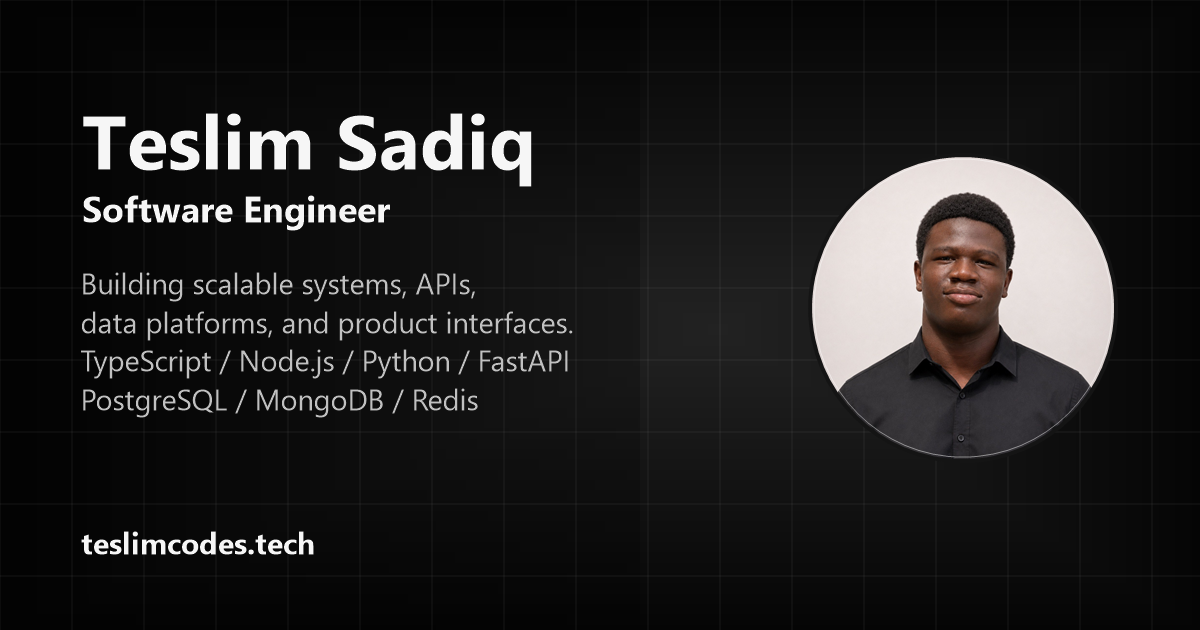
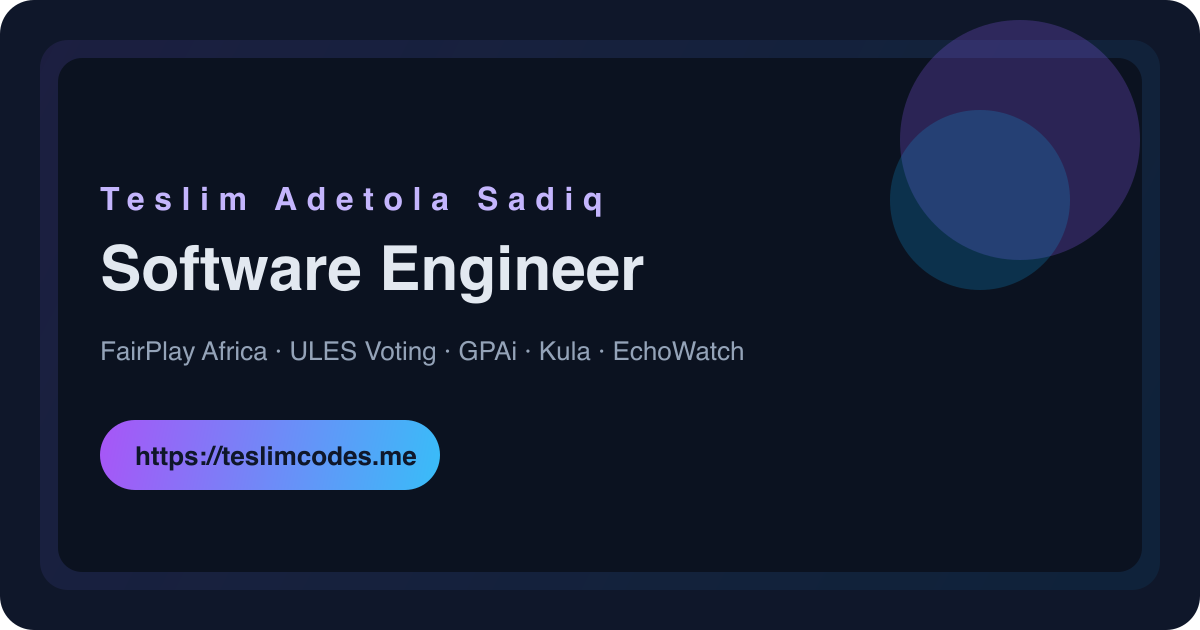
Sync portfolio role details and site metadata

diff --git a/my-portfolio/app/data/profile.ts b/my-portfolio/app/data/profile.ts
@@ -1,5 +1,5 @@
 export const resumeUrl = "/Teslim%20Adetola%20Sadiq%20-%20Resume.pdf";
-export const siteUrl = "https://teslimcodes.tech";
+export const siteUrl = "https://teslimcodes.me";
 export const seoImage = `${siteUrl}/og-image.png`;
 
 export const profile = {
@@ -10,9 +10,9 @@ export const profile = {
   timezone: "Africa/Lagos",
   email: "sadiqadetola08@gmail.com",
   summary:
-    "I am a Software Engineer and Software Engineering Intern at Access Bank Plc, working across backend systems, product-facing interfaces, and AI-powered student tools.",
+    "Backend Engineer at Nevo and ex SWE Intern at Access Bank.",
   current:
-    "I excel at turning ambiguous product requirements into reliable systems: designing APIs, modeling data, building React and TypeScript interfaces, and shipping full-stack products that can serve real communities.",
+    "I build reliable backend systems, APIs, and data workflows that support useful products and real users.",
 };
 
 export const socials = [
@@ -90,20 +90,20 @@ export const projects = [
 
 export const experience = [
   {
-    role: "Software Engineering Intern",
-    company: "Access Bank Plc",
-    href: "https://www.linkedin.com/company/access-bank-plc/",
-    period: "2026 - Present",
-    description:
-      "Gaining hands-on experience on real-world banking systems while learning from Access Bank's engineering team.",
-  },
-  {
     role: "Backend Engineer",
     company: "Nevo",
     href: "https://nevolearning.com",
     period: "2026 - Present",
     description:
       "Building backend systems for an adaptive learning platform for neurodivergent students, supporting product launch and AI-assisted learning workflows.",
+  },
+  {
+    role: "Software Engineer Intern",
+    company: "Access Bank Plc",
+    href: "https://www.linkedin.com/company/access-bank-plc/",
+    period: "Sep 2026 - Nov 2026",
+    description:
+      "Built C# services for the retail banking app's airtime, data, and electricity flows, and delivered a hackathon dashboard used by 2,000+ people.",
   },
   {
     role: "Backend Engineering Intern",
@@ -125,9 +125,9 @@ export const experience = [
     role: "Deputy Development Lead",
     company: "GDGoC UNILAG",
     href: "https://www.linkedin.com/company/dscunilag/",
-    period: "2026 - Present",
+    period: "2026",
     description:
-      "Supporting developer community programs and technical experiences that help students get closer to the people and teams building technology in practice.",
+      "Supported developer community programs and technical experiences that helped students connect with teams building technology.",
   },
 ];
 

diff --git a/my-portfolio/app/routes/projectDetails.tsx b/my-portfolio/app/routes/projectDetails.tsx
@@ -6,7 +6,7 @@ import Footer from "./footer";
 import { useRevealAnimation } from "../hooks/useRevealAnimation";
 
 export const meta = ({ params }: { params: { id?: string } }) => {
-  const ogImage = "https://teslimcodes.tech/og-image.svg";
+  const ogImage = "https://teslimcodes.me/og-image.svg";
   const twitterHandle = "@teslimadetola08";
   const project = projectsData.find((item) => item.id === params.id);
 
@@ -23,8 +23,8 @@ export const meta = ({ params }: { params: { id?: string } }) => {
         content: "This project does not exist in Teslim Sadiq’s portfolio.",
       },
       { property: "og:type", content: "website" },
-      { property: "og:url", content: "https://teslimcodes.tech/projects" },
-      { property: "og:site_name", content: "Teslim Codes" },
+      { property: "og:url", content: "https://teslimcodes.me/projects" },
+      { property: "og:site_name", content: "Teslim Sadiq" },
       { property: "og:image", content: ogImage },
       { property: "og:image:type", content: "image/svg+xml" },
       { property: "og:image:width", content: "1200" },
@@ -40,7 +40,7 @@ export const meta = ({ params }: { params: { id?: string } }) => {
     ];
   }
 
-  const pageUrl = `https://teslimcodes.tech/projects/${project.id}`;
+  const pageUrl = `https://teslimcodes.me/projects/${project.id}`;
 
   return [
     { title: `${project.title} | Teslim Sadiq` },
@@ -49,7 +49,7 @@ export const meta = ({ params }: { params: { id?: string } }) => {
     { property: "og:description", content: project.description },
     { property: "og:type", content: "article" },
     { property: "og:url", content: pageUrl },
-    { property: "og:site_name", content: "Teslim Codes" },
+    { property: "og:site_name", content: "Teslim Sadiq" },
     { property: "og:image", content: ogImage },
     { property: "og:image:type", content: "image/svg+xml" },
     { property: "og:image:width", content: "1200" },

diff --git a/my-portfolio/app/routes/home.tsx b/my-portfolio/app/routes/home.tsx
@@ -5,7 +5,7 @@ import { experience, profile, projects, resumeUrl, seoImage, siteUrl } from "~/d
 
 const title = "Teslim Sadiq | Software Engineer";
 const description =
-  "Teslim Sadiq is a Software Engineer in Lagos building scalable systems, APIs, data platforms, and product-facing interfaces with TypeScript, Node.js, Python, FastAPI, PostgreSQL, MongoDB, and Redis.";
+  "Teslim Sadiq is a Software Engineer in Lagos, currently a Backend Engineer at Nevo and formerly an SWE Intern at Access Bank.";
 
 export function links() {
   return [{ rel: "canonical", href: siteUrl }];
@@ -16,7 +16,7 @@ export function meta({}: Route.MetaArgs) {
     { title },
     { name: "description", content: description },
     { name: "robots", content: "index, follow" },
-    { name: "keywords", content: "Teslim Sadiq, Software Engineer, Backend Engineer, TypeScript, Node.js, Python, FastAPI, React, Lagos" },
+    { name: "keywords", content: "Teslim Sadiq, Software Engineer, Backend Engineer at Nevo, Access Bank, SWE Intern, TypeScript, Node.js, Python, FastAPI, Lagos" },
     { name: "author", content: "Teslim Adetola Sadiq" },
     { property: "og:title", content: title },
     { property: "og:description", content: description },
@@ -24,7 +24,7 @@ export function meta({}: Route.MetaArgs) {
     { property: "og:url", content: siteUrl },
     { property: "og:site_name", content: "Teslim Sadiq" },
     { property: "og:image", content: seoImage },
-    { property: "og:image:alt", content: "Teslim Sadiq - Software Engineer" },
+    { property: "og:image:alt", content: "Teslim Sadiq, Software Engineer" },
     { property: "og:image:width", content: "1200" },
     { property: "og:image:height", content: "630" },
     { name: "twitter:card", content: "summary_large_image" },

diff --git a/my-portfolio/app/routes/project.tsx b/my-portfolio/app/routes/project.tsx
@@ -18,9 +18,9 @@ export const meta = () => [
     content: 'Award-winning AI and fullstack builds including FairPlay Africa, ULES Voting, GPAi, Kula, and more.',
   },
   { property: 'og:type', content: 'website' },
-  { property: 'og:url', content: 'https://teslimcodes.tech/projects' },
-  { property: 'og:site_name', content: 'Teslim Codes' },
-  { property: 'og:image', content: 'https://teslimcodes.tech/og-image.svg' },
+  { property: 'og:url', content: 'https://teslimcodes.me/projects' },
+  { property: 'og:site_name', content: 'Teslim Sadiq' },
+  { property: 'og:image', content: 'https://teslimcodes.me/og-image.svg' },
   { property: 'og:image:type', content: 'image/svg+xml' },
   { property: 'og:image:width', content: '1200' },
   { property: 'og:image:height', content: '630' },
@@ -31,7 +31,7 @@ export const meta = () => [
     content: 'Award-winning AI and fullstack builds including FairPlay Africa, ULES Voting, GPAi, Kula, and more.',
   },
   { name: 'twitter:site', content: '@teslimadetola08' },
-  { name: 'twitter:image', content: 'https://teslimcodes.tech/og-image.svg' },
+  { name: 'twitter:image', content: 'https://teslimcodes.me/og-image.svg' },
 ];
 
 type Project = {

diff --git a/my-portfolio/app/routes/about.tsx b/my-portfolio/app/routes/about.tsx
@@ -106,7 +106,7 @@ export default function About() {
           <section id="intro">
             <h1>About Me</h1>
             <p>
-              My name is {profile.name}. I am a Software Engineer from Lagos, Nigeria, focused on building scalable systems that are reliable, maintainable, and useful under real business constraints.
+              My name is {profile.name}. I am a Software Engineer from Lagos, Nigeria. I currently work as a Backend Engineer at Nevo and previously worked as an SWE Intern at Access Bank. I focus on building scalable systems that are reliable, maintainable, and useful under real business constraints.
             </p>
             <p>
               I work across backend architecture, API design, data modeling, distributed workflows, and product-facing interfaces. My core stack includes TypeScript, Node.js, React, Python, FastAPI, PostgreSQL, MongoDB, Redis, and queue-based systems.

diff --git a/my-portfolio/app/routes/hero.tsx b/my-portfolio/app/routes/hero.tsx
@@ -56,7 +56,7 @@ const HeroSection = () => {
                 paragraphReveal.isVisible ? 'motion-safe:animate-reveal-up' : 'opacity-0 translate-y-6'
               } motion-reduce:opacity-100 motion-reduce:translate-y-0`}
             >
-              I’m a Lagos-based Fullstack Developer & AI Engineer shipping AI-first civic, security, and education platforms for Nigeria. From FairPlay Africa and Nevo to ULES voting and GPAi, I lead pods that blend expressive interfaces with dependable Node/FastAPI services plus payment and realtime rails that bridge the digital divide.
+              Backend Engineer at Nevo and ex SWE Intern at Access Bank.
             </p>
           </div>
           <div

diff --git a/my-portfolio/app/routes/work.tsx b/my-portfolio/app/routes/work.tsx
@@ -4,7 +4,7 @@ import { experience, projects, seoImage, siteUrl } from "~/data/profile";
 
 const title = "Experience | Teslim Sadiq";
 const description =
-  "Experience and selected software engineering projects by Teslim Sadiq, including Access Bank, Nevo, Avzdax, Engineering Career Expo, GDGoC, and shipped product work.";
+  "Software engineering experience by Teslim Sadiq, including his current Backend Engineer role at Nevo, former SWE internship at Access Bank, and selected projects.";
 
 export function meta({}: Route.MetaArgs) {
   return [

diff --git a/my-portfolio/app/root.tsx b/my-portfolio/app/root.tsx
@@ -66,7 +66,7 @@ const structuredData = [
     name: "Teslim Sadiq",
     url: siteUrl,
     description:
-      "Portfolio of Teslim Sadiq, a Software Engineer building scalable systems, APIs, data platforms, and product interfaces.",
+      "Portfolio of Teslim Sadiq, a Software Engineer in Lagos, currently a Backend Engineer at Nevo and formerly an SWE Intern at Access Bank.",
   },
   {
     "@context": "https://schema.org",

diff --git a/my-portfolio/app/routes/guestbook.tsx b/my-portfolio/app/routes/guestbook.tsx
@@ -21,7 +21,7 @@ type SubmissionDialog = {
 
 const title = "Guestbook | Teslim Sadiq";
 const description =
-  "Leave a short note for Teslim Sadiq, Software Engineer in Lagos, Nigeria.";
+  "Leave a short note for Teslim Sadiq, Software Engineer in Lagos, Nigeria, currently a Backend Engineer at Nevo.";
 const storageKey = "teslim-guestbook-entries";
 
 const defaultEntries: GuestbookEntry[] = [
